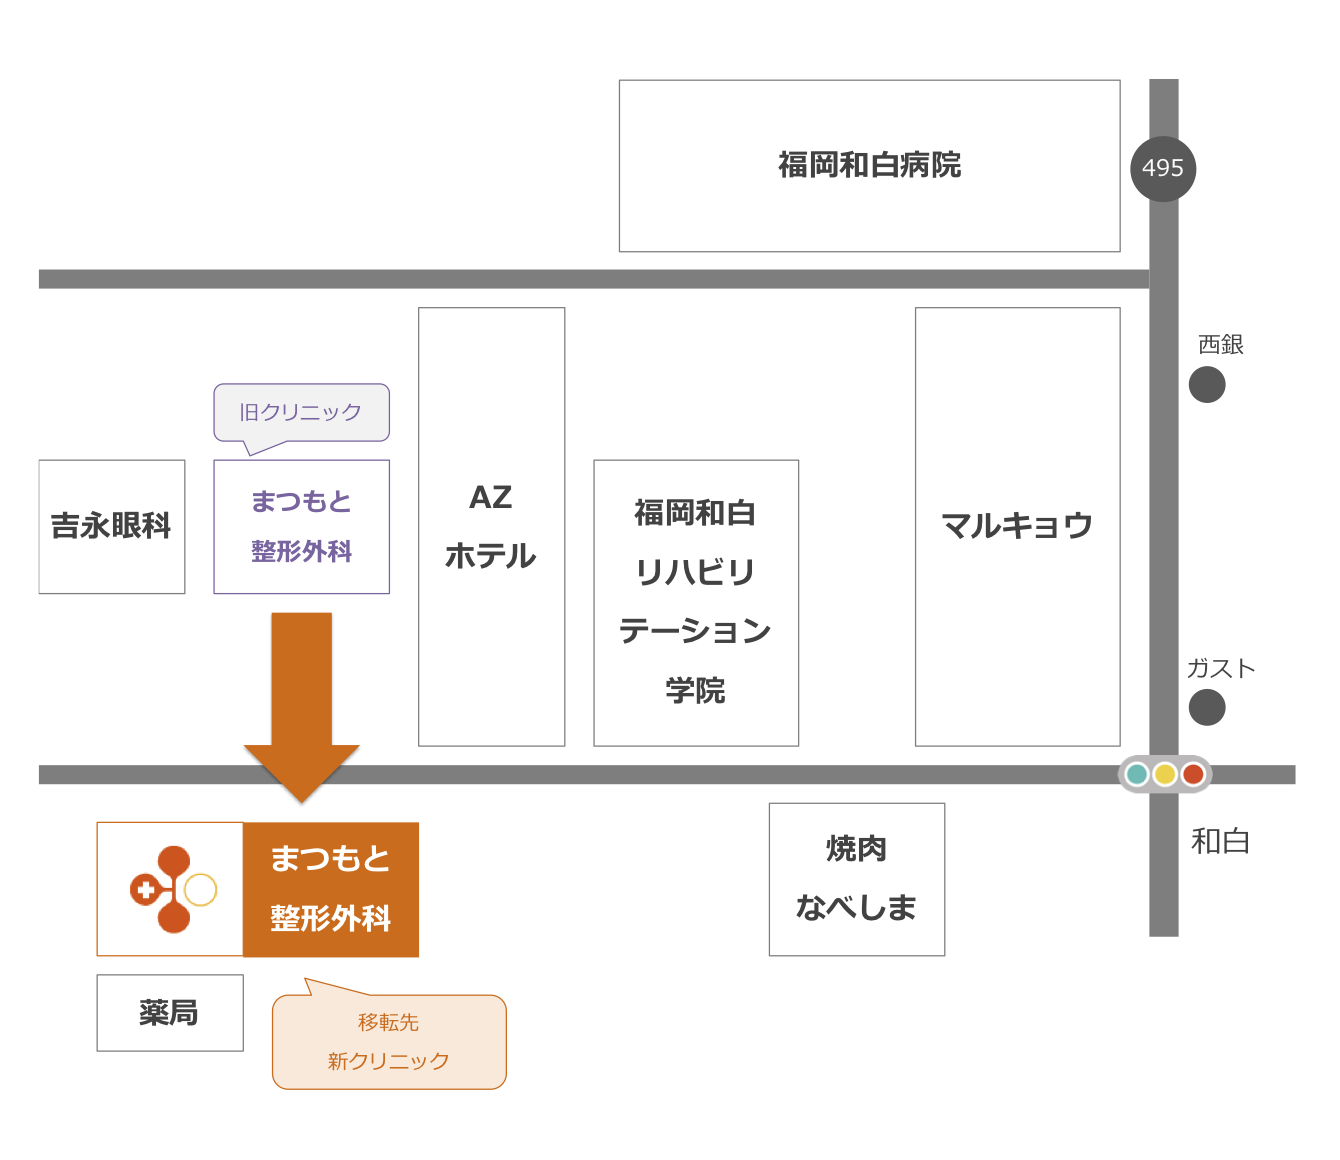
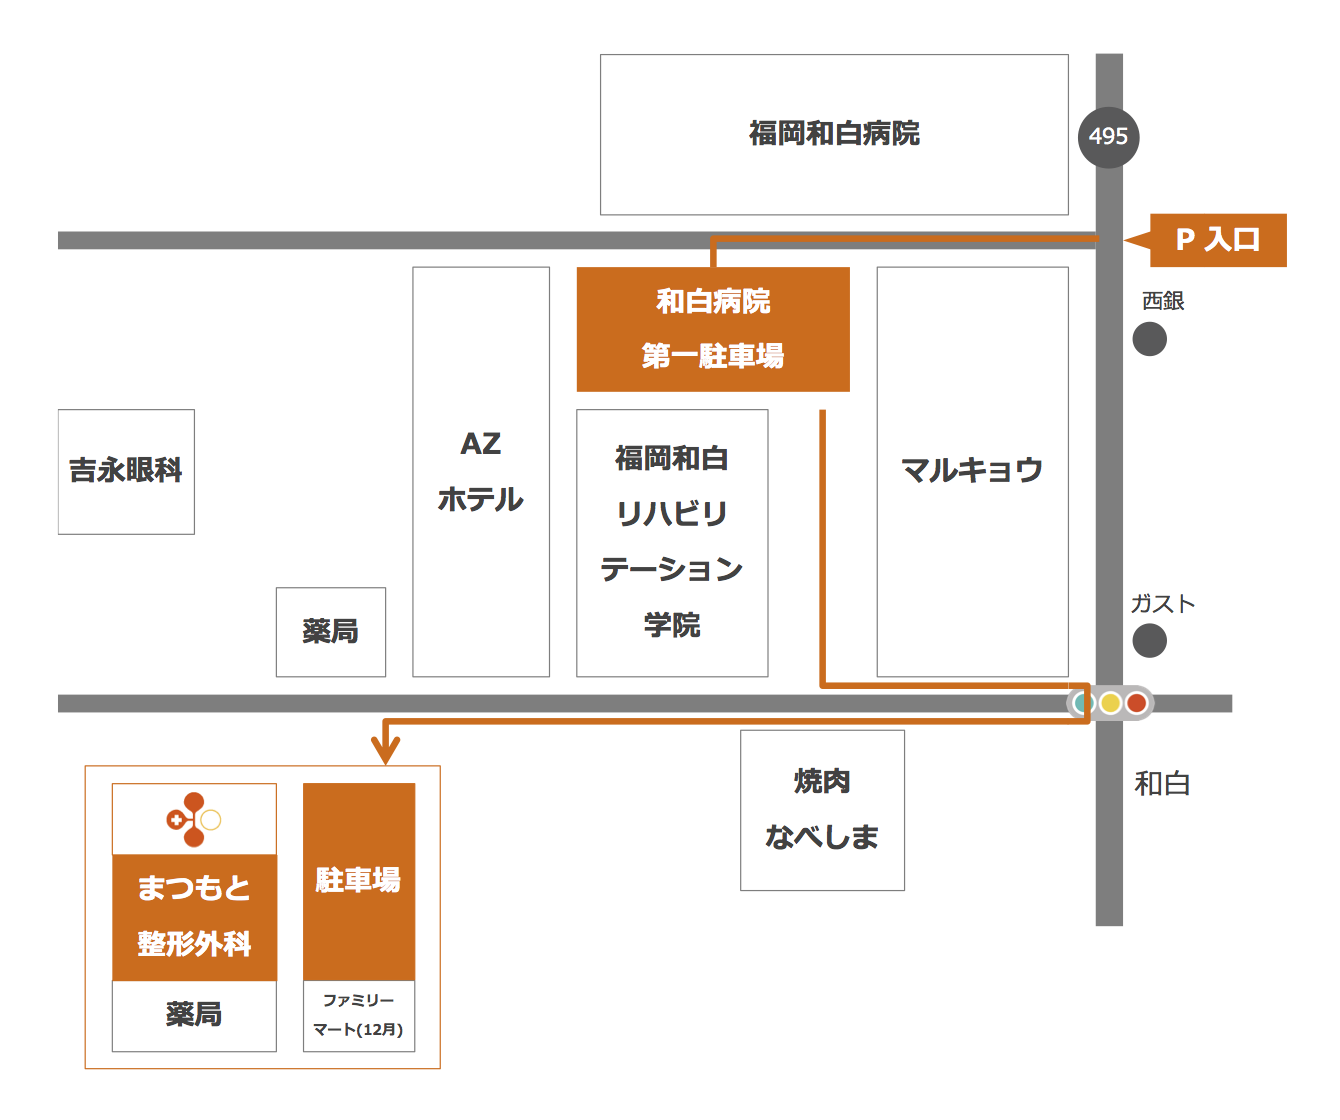
新住所に書き換え

diff --git a/index.html b/index.html
@@ -66,7 +66,7 @@
         <div class="header-main clearfix">
             <h1 class="logo"><a href="index.html">まつもと整形外科クリニック</a></h1>
             <div class="basic-info">
-                <p class="address">〒811-0213<br />福岡市東区和白丘2-3-7</p>
+                <p class="address">〒811-0202<br />福岡市東区和白丘3丁目27-64</p>
                 <p class="tel">TEL: 092-605-6006 / FAX: 092-605-6007</p>
                 <p class="telno">092-605-6006</p>
             </div>
@@ -281,8 +281,8 @@
                 目印となる「AZホテル」の隣にございます。<br />
                 無料駐車場を完備しておりますのでお車はもちろん、公共機関でも大変お越しいただきやすい場所です。
                 </p>
-                <p class="map-img"><img src="img/access/access_map.png" width="400" height="275" alt="地図" /></p>
-                <iframe src="https://www.google.com/maps/embed?pb=!1m18!1m12!1m3!1d3319.6846090651497!2d130.42949295118984!3d33.69122988061092!2m3!1f0!2f0!3f0!3m2!1i1024!2i768!4f13.1!3m3!1m2!1s0x354188d898f187fd%3A0x137e2398f0820ba6!2z44CSODExLTAyMTMg56aP5bKh55yM56aP5bKh5biC5p2x5Yy65ZKM55m95LiY77yS5LiB55uu77yT4oiS77yX!5e0!3m2!1sja!2sjp!4v1469976564038" width="600" height="450" frameborder="0" style="border:0" allowfullscreen></iframe><br />
+                <p class="map-img"><img src="img/access/access_map_relocate.png" width="600" alt="地図" /></p>
+                <iframe src="https://www.google.com/maps/embed?pb=!1m18!1m12!1m3!1d3319.7034709846366!2d130.42902991541726!3d33.6907415807059!2m3!1f0!2f0!3f0!3m2!1i1024!2i768!4f13.1!3m3!1m2!1s0x354189277d858fa9%3A0x21332e9a934cb6a4!2z44CSODExLTAyMDIg56aP5bKh55yM56aP5bKh5biC5p2x5Yy65ZKM55m977yT5LiB55uu77yS77yX4oiS77yW77yU!5e0!3m2!1sja!2sjp!4v1567931788624!5m2!1sja!2sjp" width="600" height="450" frameborder="0" style="border:0;" allowfullscreen=""></iframe><br />
                 <p class="link-map">
                     <a href="https://www.google.co.jp/maps/place/%E3%80%92811-0213+%E7%A6%8F%E5%B2%A1%E7%9C%8C%E7%A6%8F%E5%B2%A1%E5%B8%82%E6%9D%B1%E5%8C%BA%E5%92%8C%E7%99%BD%E4%B8%98%EF%BC%92%E4%B8%81%E7%9B%AE%EF%BC%93%E2%88%92%EF%BC%97/@33.6912299,130.429493,17z/data=!3m1!4b1!4m5!3m4!1s0x354188d898f187fd:0x137e2398f0820ba6!8m2!3d33.6912299!4d130.431687" target="_blank">大きな地図で見る</a>
                 </p>
@@ -322,12 +322,12 @@
     <footer class="footer">
         <h1 class="footer-logo"><a href="index.html">まつもと整形外科クリニック</a></h1>
         <p class="footer-info">
-            <address>〒811-0213 福岡市東区和白丘２丁目３－７</address>
+            <address>〒811-0202 福岡市東区和白丘3丁目27-64</address>
         </p>
         <div class="keywords">
             <ul>
                 <li class="word">福岡市東区</li>
-                <li class="word">和白</li>
+                <li class="word">和白</li>
                 <li class="word">整形外科</li>
                 <li class="word">一般整形外科</li>
                 <li class="word">スポーツ整形外科</li>

diff --git a/access.html b/access.html
@@ -65,7 +65,7 @@
         <div class="header-main clearfix">
             <h1 class="logo"><a href="index.html">まつもと整形外科クリニック</a></h1>
             <div class="basic-info">
-                <p class="address">〒811-0213<br />福岡市東区和白丘2-3-7</p>
+                <p class="address">〒811-0202<br />福岡市東区和白丘3丁目27-64</p>
                 <p class="tel">TEL: 092-605-6006 / FAX: 092-605-6007</p>
                 <p class="telno">092-605-6006</p>
             </div>
@@ -110,7 +110,7 @@
                 無料駐車場を完備しておりますのでお車はもちろん、公共機関でも大変お越しいただきやすい場所です。
                 </p>
                 <p class="map-img"><img src="img/access/access_map.png" width="400" height="275" alt="地図" /></p>
-                <iframe src="https://www.google.com/maps/embed?pb=!1m18!1m12!1m3!1d3319.6846090651497!2d130.42949295118984!3d33.69122988061092!2m3!1f0!2f0!3f0!3m2!1i1024!2i768!4f13.1!3m3!1m2!1s0x354188d898f187fd%3A0x137e2398f0820ba6!2z44CSODExLTAyMTMg56aP5bKh55yM56aP5bKh5biC5p2x5Yy65ZKM55m95LiY77yS5LiB55uu77yT4oiS77yX!5e0!3m2!1sja!2sjp!4v1469976564038" width="600" height="450" frameborder="0" style="border:0" allowfullscreen></iframe><br />
+                <iframe src="https://www.google.com/maps/embed?pb=!1m18!1m12!1m3!1d3319.7034709846366!2d130.42902991541726!3d33.6907415807059!2m3!1f0!2f0!3f0!3m2!1i1024!2i768!4f13.1!3m3!1m2!1s0x354189277d858fa9%3A0x21332e9a934cb6a4!2z44CSODExLTAyMDIg56aP5bKh55yM56aP5bKh5biC5p2x5Yy65ZKM55m977yT5LiB55uu77yS77yX4oiS77yW77yU!5e0!3m2!1sja!2sjp!4v1567931788624!5m2!1sja!2sjp" width="600" height="450" frameborder="0" style="border:0;" allowfullscreen=""></iframe><br />
                 <p class="link-map">
                     <a href="https://www.google.co.jp/maps/place/%E3%80%92811-0213+%E7%A6%8F%E5%B2%A1%E7%9C%8C%E7%A6%8F%E5%B2%A1%E5%B8%82%E6%9D%B1%E5%8C%BA%E5%92%8C%E7%99%BD%E4%B8%98%EF%BC%92%E4%B8%81%E7%9B%AE%EF%BC%93%E2%88%92%EF%BC%97/@33.6912299,130.429493,17z/data=!3m1!4b1!4m5!3m4!1s0x354188d898f187fd:0x137e2398f0820ba6!8m2!3d33.6912299!4d130.431687" target="_blank">大きな地図で見る</a>
                 </p>
@@ -172,12 +172,12 @@
     <footer class="footer">
         <h1 class="footer-logo"><a href="index.html">まつもと整形外科クリニック</a></h1>
         <p class="footer-info">
-            <address>〒811-0213 福岡市東区和白丘２丁目３－７</address>
+            <address>〒811-0202 福岡市東区和白丘3丁目27-64</address>
         </p>
         <div class="keywords">
             <ul>
                 <li class="word">福岡市東区</li>
-                <li class="word">和白</li>
+                <li class="word">和白</li>
                 <li class="word">整形外科</li>
                 <li class="word">一般整形外科</li>
                 <li class="word">スポーツ整形外科</li>

diff --git a/sp/index.html b/sp/index.html
@@ -55,7 +55,7 @@
         <div class="header-main clearfix">
             <h1 class="logo"><a href="index.html">まつもと整形外科クリニック</a></h1>
             <div class="basic-info">
-                <p class="address">福岡市東区和白丘2-3-7</p>
+                <p class="address">福岡市東区和白丘3丁目27-64</p>
                 <p class="telno"><a href="tel:0926056006">092-605-6006</a></p>
             </div>
         </div>
@@ -268,7 +268,7 @@
             無料駐車場を完備しておりますのでお車はもちろん、公共機関でも大変お越しいただきやすい場所です。<br />
             </p>
             <p class="map-img"><img src="img/access/access_map.png" width="300" height="206" alt="地図" /></p>
-            <iframe class="googlemap" src="https://www.google.com/maps/embed?pb=!1m18!1m12!1m3!1d3319.6846090651497!2d130.42949295118984!3d33.69122988061092!2m3!1f0!2f0!3f0!3m2!1i1024!2i768!4f13.1!3m3!1m2!1s0x354188d898f187fd%3A0x137e2398f0820ba6!2z44CSODExLTAyMTMg56aP5bKh55yM56aP5bKh5biC5p2x5Yy65ZKM55m95LiY77yS5LiB55uu77yT4oiS77yX!5e0!3m2!1sja!2sjp!4v1469976564038" width="300" height="300" frameborder="0" style="border:0" allowfullscreen></iframe><br />
+            <iframe src="https://www.google.com/maps/embed?pb=!1m18!1m12!1m3!1d3319.7034709846366!2d130.42902991541726!3d33.6907415807059!2m3!1f0!2f0!3f0!3m2!1i1024!2i768!4f13.1!3m3!1m2!1s0x354189277d858fa9%3A0x21332e9a934cb6a4!2z44CSODExLTAyMDIg56aP5bKh55yM56aP5bKh5biC5p2x5Yy65ZKM55m977yT5LiB55uu77yS77yX4oiS77yW77yU!5e0!3m2!1sja!2sjp!4v1567931788624!5m2!1sja!2sjp" width="300" height="300" frameborder="0" style="border:0;" allowfullscreen=""></iframe><br />
             <p class="link-map">
                 <a href="https://www.google.co.jp/maps/place/%E3%80%92811-0213+%E7%A6%8F%E5%B2%A1%E7%9C%8C%E7%A6%8F%E5%B2%A1%E5%B8%82%E6%9D%B1%E5%8C%BA%E5%92%8C%E7%99%BD%E4%B8%98%EF%BC%92%E4%B8%81%E7%9B%AE%EF%BC%93%E2%88%92%EF%BC%97/@33.6912299,130.429493,17z/data=!3m1!4b1!4m5!3m4!1s0x354188d898f187fd:0x137e2398f0820ba6!8m2!3d33.6912299!4d130.431687" target="_blank">地図アプリで見る</a>
             </p>
@@ -311,7 +311,7 @@
     <footer class="footer">
         <h1 class="footer-logo"><a href="index.html">まつもと整形外科クリニック</a></h1>
         <p class="footer-info">
-            <address>〒811-0213 福岡市東区和白丘２丁目３－７</address>
+            <address>〒811-0202 福岡市東区和白丘3丁目27-64</address>
         </p>
         <div class="keywords">
             <ul>

diff --git a/sp/access.html b/sp/access.html
@@ -56,7 +56,7 @@
         <div class="header-main clearfix">
             <h1 class="logo"><a href="index.html">まつもと整形外科クリニック</a></h1>
             <div class="basic-info">
-                <p class="address">福岡市東区和白丘2-3-7</p>
+                <p class="address">福岡市東区和白丘3丁目27-64</p>
                 <p class="telno"><a href="tel:0926056006">092-605-6006</a></p>
             </div>
         </div>
@@ -87,7 +87,7 @@
             無料駐車場を完備しておりますのでお車はもちろん、公共機関でも大変お越しいただきやすい場所です。<br />
             </p>
             <p class="map-img"><img src="img/access/access_map.png" width="300" height="206" alt="地図" /></p>
-            <iframe class="googlemap" src="https://www.google.com/maps/embed?pb=!1m18!1m12!1m3!1d3319.6846090651497!2d130.42949295118984!3d33.69122988061092!2m3!1f0!2f0!3f0!3m2!1i1024!2i768!4f13.1!3m3!1m2!1s0x354188d898f187fd%3A0x137e2398f0820ba6!2z44CSODExLTAyMTMg56aP5bKh55yM56aP5bKh5biC5p2x5Yy65ZKM55m95LiY77yS5LiB55uu77yT4oiS77yX!5e0!3m2!1sja!2sjp!4v1469976564038" width="300" height="300" frameborder="0" style="border:0" allowfullscreen></iframe><br />
+            <iframe src="https://www.google.com/maps/embed?pb=!1m18!1m12!1m3!1d3319.7034709846366!2d130.42902991541726!3d33.6907415807059!2m3!1f0!2f0!3f0!3m2!1i1024!2i768!4f13.1!3m3!1m2!1s0x354189277d858fa9%3A0x21332e9a934cb6a4!2z44CSODExLTAyMDIg56aP5bKh55yM56aP5bKh5biC5p2x5Yy65ZKM55m977yT5LiB55uu77yS77yX4oiS77yW77yU!5e0!3m2!1sja!2sjp!4v1567931788624!5m2!1sja!2sjp" width="300" height="300" frameborder="0" style="border:0;" allowfullscreen=""></iframe><br />
             <p class="link-map">
                 <a href="https://www.google.co.jp/maps/place/%E3%80%92811-0213+%E7%A6%8F%E5%B2%A1%E7%9C%8C%E7%A6%8F%E5%B2%A1%E5%B8%82%E6%9D%B1%E5%8C%BA%E5%92%8C%E7%99%BD%E4%B8%98%EF%BC%92%E4%B8%81%E7%9B%AE%EF%BC%93%E2%88%92%EF%BC%97/@33.6912299,130.429493,17z/data=!3m1!4b1!4m5!3m4!1s0x354188d898f187fd:0x137e2398f0820ba6!8m2!3d33.6912299!4d130.431687" target="_blank">地図アプリで見る</a>
             </p>
@@ -148,7 +148,7 @@
     <footer class="footer">
         <h1 class="footer-logo"><a href="index.html">まつもと整形外科クリニック</a></h1>
         <p class="footer-info">
-            <address>〒811-0213 福岡市東区和白丘２丁目３－７</address>
+            <address>〒811-0202 福岡市東区和白丘3丁目27-64</address>
         </p>
         <div class="keywords">
             <ul>

diff --git a/daycare.html b/daycare.html
@@ -65,7 +65,7 @@
         <div class="header-main clearfix">
             <h1 class="logo"><a href="index.html">まつもと整形外科クリニック</a></h1>
             <div class="basic-info">
-                <p class="address">〒811-0213<br />福岡市東区和白丘2-3-7</p>
+                <p class="address">〒811-0202<br />福岡市東区和白丘3丁目27-64</p>
                 <p class="tel">TEL: 092-605-6006 / FAX: 092-605-6007</p>
                 <p class="telno">092-605-6006</p>
             </div>
@@ -457,12 +457,12 @@
     <footer class="footer">
         <h1 class="footer-logo"><a href="index.html">まつもと整形外科クリニック</a></h1>
         <p class="footer-info">
-            <address>〒811-0213 福岡市東区和白丘２丁目３－７</address>
+            <address>〒811-0202 福岡市東区和白丘3丁目27-64</address>
         </p>
         <div class="keywords">
             <ul>
                 <li class="word">福岡市東区</li>
-                <li class="word">和白</li>
+                <li class="word">和白</li>
                 <li class="word">整形外科</li>
                 <li class="word">一般整形外科</li>
                 <li class="word">スポーツ整形外科</li>

diff --git a/equipment.html b/equipment.html
@@ -66,7 +66,7 @@
         <div class="header-main clearfix">
             <h1 class="logo"><a href="index.html">まつもと整形外科クリニック</a></h1>
             <div class="basic-info">
-                <p class="address">〒811-0213<br />福岡市東区和白丘2-3-7</p>
+                <p class="address">〒811-0202<br />福岡市東区和白丘3丁目27-64</p>
                 <p class="tel">TEL: 092-605-6006 / FAX: 092-605-6007</p>
                 <p class="telno">092-605-6006</p>
             </div>
@@ -301,12 +301,12 @@
     <footer class="footer">
         <h1 class="footer-logo"><a href="index.html">まつもと整形外科クリニック</a></h1>
         <p class="footer-info">
-            <address>〒811-0213 福岡市東区和白丘２丁目３－７</address>
+            <address>〒811-0202 福岡市東区和白丘3丁目27-64</address>
         </p>
         <div class="keywords">
             <ul>
                 <li class="word">福岡市東区</li>
-                <li class="word">和白</li>
+                <li class="word">和白</li>
                 <li class="word">整形外科</li>
                 <li class="word">一般整形外科</li>
                 <li class="word">スポーツ整形外科</li>

diff --git a/examination.html b/examination.html
@@ -65,7 +65,7 @@
         <div class="header-main clearfix">
             <h1 class="logo"><a href="index.html">まつもと整形外科クリニック</a></h1>
             <div class="basic-info">
-                <p class="address">〒811-0213<br />福岡市東区和白丘2-3-7</p>
+                <p class="address">〒811-0202<br />福岡市東区和白丘3丁目27-64</p>
                 <p class="tel">TEL: 092-605-6006 / FAX: 092-605-6007</p>
                 <p class="telno">092-605-6006</p>
             </div>
@@ -265,12 +265,12 @@
     <footer class="footer">
         <h1 class="footer-logo"><a href="index.html">まつもと整形外科クリニック</a></h1>
         <p class="footer-info">
-            <address>〒811-0213 福岡市東区和白丘２丁目３－７</address>
+            <address>〒811-0202 福岡市東区和白丘3丁目27-64</address>
         </p>
         <div class="keywords">
             <ul>
                 <li class="word">福岡市東区</li>
-                <li class="word">和白</li>
+                <li class="word">和白</li>
                 <li class="word">整形外科</li>
                 <li class="word">一般整形外科</li>
                 <li class="word">スポーツ整形外科</li>

diff --git a/link.html b/link.html
@@ -66,7 +66,7 @@
         <div class="header-main clearfix">
             <h1 class="logo"><a href="index.html">まつもと整形外科クリニック</a></h1>
             <div class="basic-info">
-                <p class="address">〒811-0213<br />福岡市東区和白丘2-3-7</p>
+                <p class="address">〒811-0202<br />福岡市東区和白丘3丁目27-64</p>
                 <p class="tel">TEL: 092-605-6006 / FAX: 092-605-6007</p>
                 <p class="telno">092-605-6006</p>
             </div>
@@ -194,12 +194,12 @@
     <footer class="footer">
         <h1 class="footer-logo"><a href="index.html">まつもと整形外科クリニック</a></h1>
         <p class="footer-info">
-            <address>〒811-0213 福岡市東区和白丘２丁目３－７</address>
+            <address>〒811-0202 福岡市東区和白丘3丁目27-64</address>
         </p>
         <div class="keywords">
             <ul>
                 <li class="word">福岡市東区</li>
-                <li class="word">和白</li>
+                <li class="word">和白</li>
                 <li class="word">整形外科</li>
                 <li class="word">一般整形外科</li>
                 <li class="word">スポーツ整形外科</li>

diff --git a/staff.html b/staff.html
@@ -66,7 +66,7 @@
         <div class="header-main clearfix">
             <h1 class="logo"><a href="index.html">まつもと整形外科クリニック</a></h1>
             <div class="basic-info">
-                <p class="address">〒811-0213<br />福岡市東区和白丘2-3-7</p>
+                <p class="address">〒811-0202<br />福岡市東区和白丘3丁目27-64</p>
                 <p class="tel">TEL: 092-605-6006 / FAX: 092-605-6007</p>
                 <p class="telno">092-605-6006</p>
             </div>
@@ -173,12 +173,12 @@
     <footer class="footer">
         <h1 class="footer-logo"><a href="index.html">まつもと整形外科クリニック</a></h1>
         <p class="footer-info">
-            <address>〒811-0213 福岡市東区和白丘２丁目３－７</address>
+            <address>〒811-0202 福岡市東区和白丘3丁目27-64</address>
         </p>
         <div class="keywords">
             <ul>
                 <li class="word">福岡市東区</li>
-                <li class="word">和白</li>
+                <li class="word">和白</li>
                 <li class="word">整形外科</li>
                 <li class="word">一般整形外科</li>
                 <li class="word">スポーツ整形外科</li>

diff --git a/sp/equipment.html b/sp/equipment.html
@@ -55,7 +55,7 @@
         <div class="header-main clearfix">
             <h1 class="logo"><a href="index.html">まつもと整形外科クリニック</a></h1>
             <div class="basic-info">
-                <p class="address">福岡市東区和白丘2-3-7</p>
+                <p class="address">福岡市東区和白丘3丁目27-64</p>
                 <p class="telno"><a href="tel:0926056006">092-605-6006</a></p>
             </div>
         </div>
@@ -279,7 +279,7 @@
     <footer class="footer">
         <h1 class="footer-logo"><a href="index.html">まつもと整形外科クリニック</a></h1>
         <p class="footer-info">
-            <address>〒811-0213 福岡市東区和白丘２丁目３－７</address>
+            <address>〒811-0202 福岡市東区和白丘3丁目27-64</address>
         </p>
         <div class="keywords">
             <ul>

diff --git a/sp/examination.html b/sp/examination.html
@@ -55,7 +55,7 @@
         <div class="header-main clearfix">
             <h1 class="logo"><a href="index.html">まつもと整形外科クリニック</a></h1>
             <div class="basic-info">
-                <p class="address">福岡市東区和白丘2-3-7</p>
+                <p class="address">福岡市東区和白丘3丁目27-64</p>
                 <p class="telno"><a href="tel:0926056006">092-605-6006</a></p>
             </div>
         </div>
@@ -235,7 +235,7 @@
     <footer class="footer">
         <h1 class="footer-logo"><a href="index.html">まつもと整形外科クリニック</a></h1>
         <p class="footer-info">
-            <address>〒811-0213 福岡市東区和白丘２丁目３－７</address>
+            <address>〒811-0202 福岡市東区和白丘3丁目27-64</address>
         </p>
         <div class="keywords">
             <ul>

diff --git a/sp/link.html b/sp/link.html
@@ -56,7 +56,7 @@
         <div class="header-main clearfix">
             <h1 class="logo"><a href="index.html">まつもと整形外科クリニック</a></h1>
             <div class="basic-info">
-                <p class="address">福岡市東区和白丘2-3-7</p>
+                <p class="address">福岡市東区和白丘3丁目27-64</p>
                 <p class="telno"><a href="tel:0926056006">092-605-6006</a></p>
             </div>
         </div>
@@ -173,7 +173,7 @@
     <footer class="footer">
         <h1 class="footer-logo"><a href="index.html">まつもと整形外科クリニック</a></h1>
         <p class="footer-info">
-            <address>〒811-0213 福岡市東区和白丘２丁目３－７</address>
+            <address>〒811-0202 福岡市東区和白丘3丁目27-64</address>
         </p>
         <div class="keywords">
             <ul>
